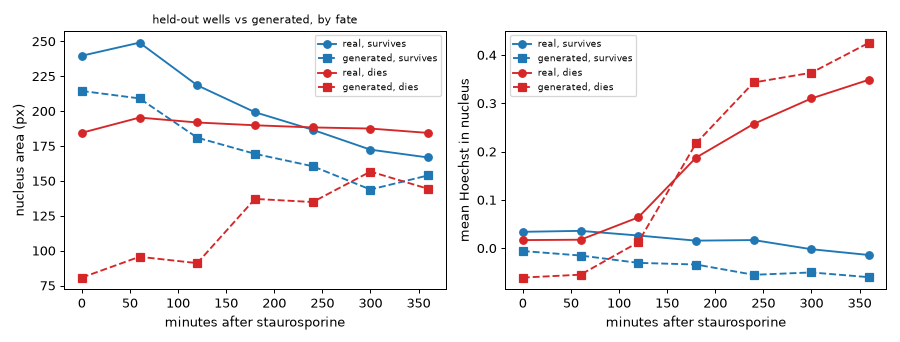
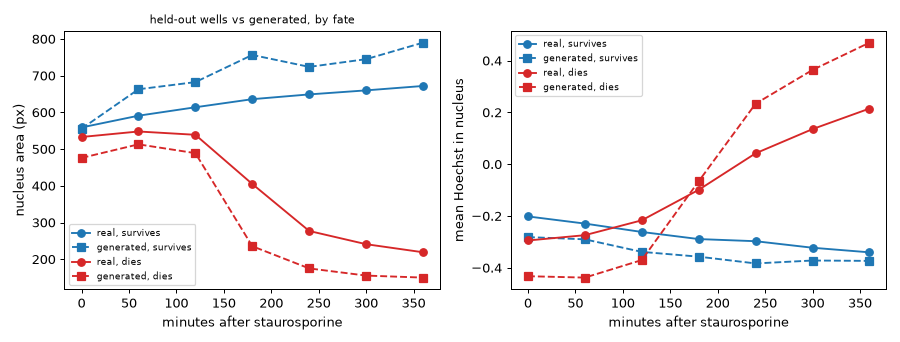
Per-image nucleus readout; size gap was mostly the fixed threshold

diff --git a/scripts/10_eval_flow.py b/scripts/10_eval_flow.py
@@ -4,8 +4,8 @@
    once on "dies", at frames 0, 2, ..., 12. If the model learned the biology, the two branches
    should look alike early and diverge later.
 2. A simple quantitative check on two nuclear readouts that mark apoptosis, computed the same
-   way on real held-out crops and on generated images: nucleus area (pixels above a fixed
-   Hoechst threshold) and mean Hoechst inside the nucleus. For each frame and fate, compare the
+   way on real held-out crops and on generated images: nucleus area (Otsu object nearest the
+   centre, see static2fate.readouts) and mean Hoechst inside the nucleus. For each frame and fate, compare the
    generated mean with the real mean, and compare the dies-minus-survives gap over time.
 
 Writes results/flow/counterfactual_grid.png, results/flow/nuclear_readouts.csv and
@@ -26,23 +26,18 @@ import torch
 sys.path.insert(0, str(Path(__file__).resolve().parents[1] / "src"))
 sys.path.insert(0, str(Path(__file__).resolve().parent))
 from static2fate.flow import UNet, sample  # noqa: E402
+from static2fate.readouts import cell_readouts  # noqa: E402
 
 ROOT = Path(__file__).resolve().parents[1]
 OUT = ROOT / "results/flow"
 FRAMES = list(range(0, 13, 2))
 N_GEN = 128  # generated images per frame and fate
-THR = -0.2  # Hoechst threshold in [-1, 1] units for the nucleus mask
 
 
 def nuclear(x: torch.Tensor) -> tuple[np.ndarray, np.ndarray]:
-    """x (n, 3, 64, 64) in [-1, 1]; channel 0 is Hoechst. Central nucleus only (16 px radius)."""
-    h = x[:, 0]
-    yy, xx = torch.meshgrid(torch.arange(64), torch.arange(64), indexing="ij")
-    centre = ((yy - 32) ** 2 + (xx - 32) ** 2 < 16**2).to(h.device)
-    mask = (h > THR) & centre
-    area = mask.flatten(1).sum(1).float()
-    mean = (h * mask).flatten(1).sum(1) / area.clamp(min=1)
-    return area.cpu().numpy(), mean.cpu().numpy()
+    """Nucleus area and mean Hoechst per image (NaN-free medians are taken by the caller)."""
+    r = cell_readouts(x)
+    return r[:, 0], r[:, 1]
 
 
 def main() -> None:
@@ -87,8 +82,8 @@ def main() -> None:
                          generator=torch.Generator(device="cpu").manual_seed(f * 10 + k) if device == "cpu" else None)
             ga, gm = nuclear(gen)
             rows.append({"frame": f, "minutes": f * 30, "fate": "dies" if k else "survives",
-                         "real_area": ra.mean(), "gen_area": ga.mean(),
-                         "real_hoechst": rm.mean(), "gen_hoechst": gm.mean(), "n_real": len(real)})
+                         "real_area": np.nanmedian(ra), "gen_area": np.nanmedian(ga),
+                         "real_hoechst": np.nanmedian(rm), "gen_hoechst": np.nanmedian(gm), "n_real": len(real)})
         print(rows[-2:], flush=True)
     df = pd.DataFrame(rows)
     df.to_csv(OUT / "nuclear_readouts.csv", index=False)

diff --git a/src/static2fate/readouts.py b/src/static2fate/readouts.py
@@ -1,0 +1,39 @@
+"""Per-image cell readouts used to compare real and generated 64 px crops.
+
+The nucleus is the Otsu-thresholded Hoechst object closest to the crop centre. A per-image
+threshold is used because generated images are slightly dimmer than real ones overall; a fixed
+threshold made generated nuclei look far smaller than they are (notebook, 24 Oct).
+"""
+
+from __future__ import annotations
+
+import numpy as np
+import torch
+from skimage.filters import threshold_otsu
+from skimage.measure import label, regionprops
+
+FEATURES = ["nuc_area", "nuc_hoechst", "cyto_green", "cyto_red"]
+
+
+def cell_readouts(x: torch.Tensor | np.ndarray) -> np.ndarray:
+    """x (n, 3, 64, 64) in [-1, 1], channels Hoechst, ChromaLIVE 488, ChromaLIVE 561.
+
+    Returns (n, 4): nucleus area (px), mean Hoechst in the nucleus, and mean green and red in a
+    12 px ring around the nucleus (the cytoplasm signal that shifts to green in apoptosis).
+    """
+    a = x.detach().float().cpu().numpy() if isinstance(x, torch.Tensor) else np.asarray(x, float)
+    out = np.full((len(a), 4), np.nan)
+    yy, xx = np.mgrid[:64, :64]
+    for i, im in enumerate(a):
+        h = im[0]
+        lab = label(h > threshold_otsu(h))
+        props = regionprops(lab)
+        if not props:
+            continue
+        p = min(props, key=lambda q: (q.centroid[0] - 32) ** 2 + (q.centroid[1] - 32) ** 2)
+        nuc = lab == p.label
+        cy, cx = p.centroid
+        r = np.hypot(yy - cy, xx - cx)
+        ring = (~nuc) & (r < np.sqrt(p.area / np.pi) + 12)
+        out[i] = [p.area, h[nuc].mean(), im[1][ring].mean(), im[2][ring].mean()]
+    return out
